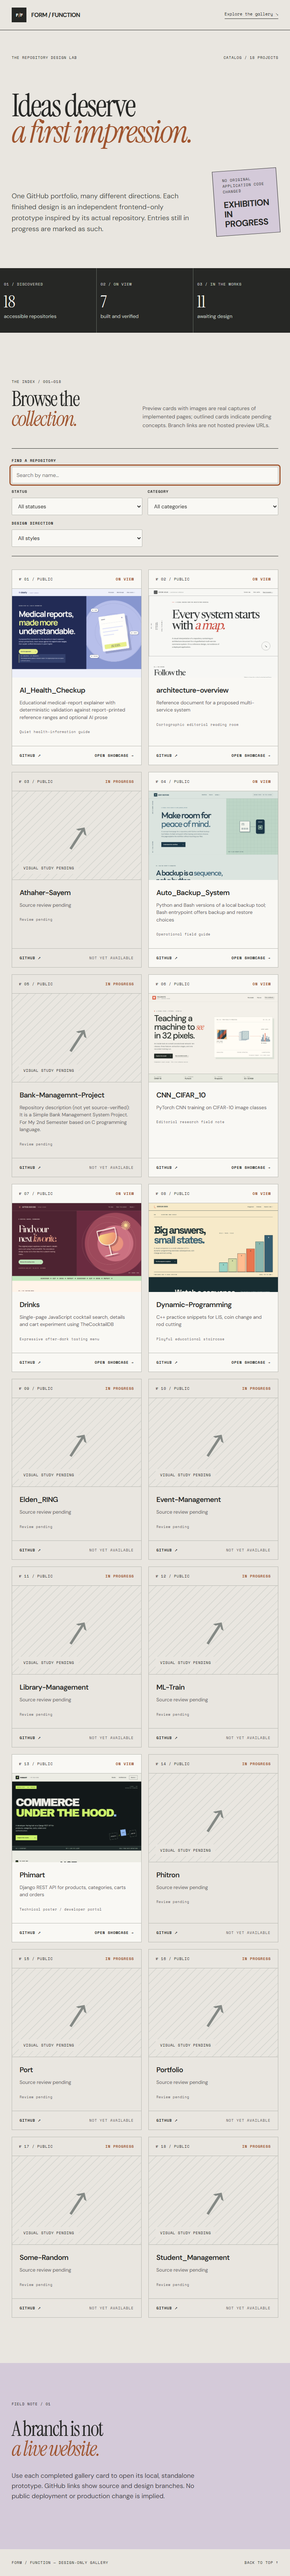
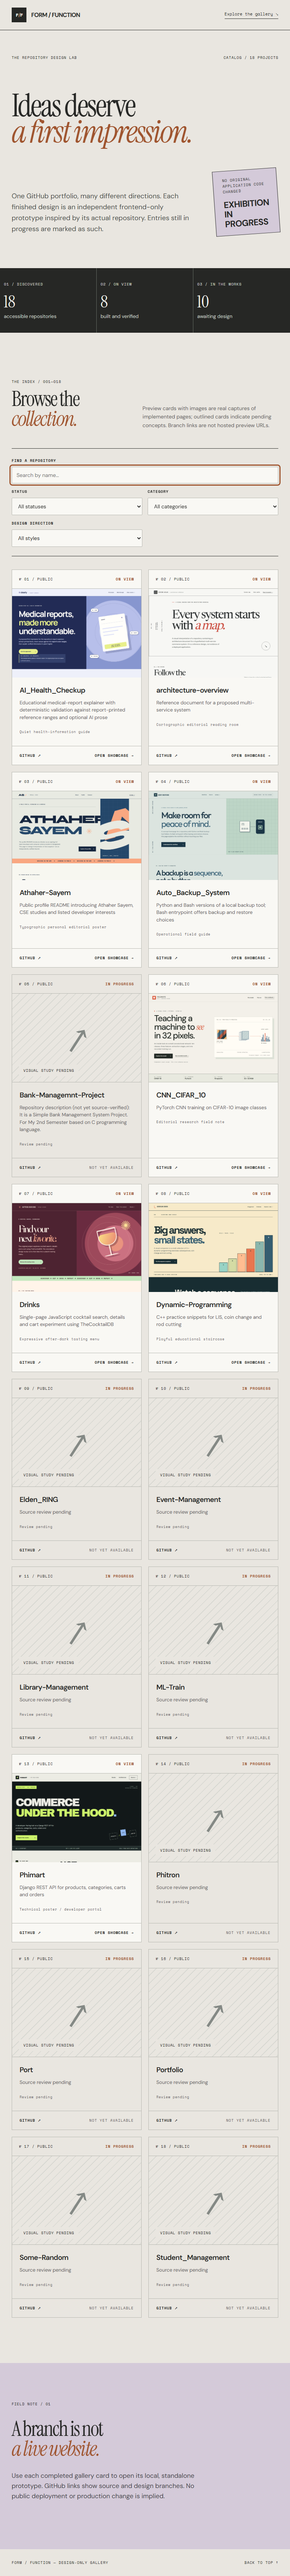
feat: index verified public profile showcase

Changed region(s): [[0.0625, 0.281, 0.4688, 0.3435]]

diff --git a/showcase-design/showcases/Athaher-Sayem/styles.css b/showcase-design/showcases/Athaher-Sayem/styles.css
@@ -1,0 +1,5 @@
+:root{--paper:#e8eae2;--ink:#14243d;--blue:#24476a;--peach:#f9a781;--chalk:#f7f7f0;--line:#9caba3;--sans:'DM Sans',Arial,sans-serif;--display:'Syne',Arial,sans-serif;--mono:'IBM Plex Mono',Consolas,monospace}*{box-sizing:border-box}html{scroll-behavior:smooth}body{margin:0;background:var(--paper);color:var(--ink);font:16px/1.6 var(--sans)}a{color:inherit}button{cursor:pointer;font:inherit}a:focus-visible,button:focus-visible{outline:3px solid var(--blue);outline-offset:4px}.skip{position:absolute;top:-100px;left:12px;background:var(--chalk);padding:12px;z-index:5}.skip:focus{top:10px}header{min-height:85px;border-bottom:1px solid var(--ink);padding:0 5%;display:flex;align-items:center;justify-content:space-between;gap:20px}.brand{font:800 29px var(--display);text-decoration:none;display:flex;align-items:center;gap:5px}.brand>span{color:var(--peach)}.brand small{font:10px var(--mono);margin-left:15px;border-left:1px solid var(--line);padding-left:15px;white-space:nowrap}nav{display:flex;gap:32px;font:600 12px var(--sans)}nav a,.source-link{text-decoration:none}nav a:hover,.source-link:hover{color:var(--blue)}.source-link{font:600 12px var(--mono);border-bottom:1px solid var(--ink)}h1,h2,h3,p{margin-top:0}.hero{display:grid;grid-template-columns:1.3fr .7fr;min-height:650px}.hero-left{padding:54px 5% 80px 8%;display:flex;flex-direction:column}.overline,.section-kicker,.source-note,.toolkit-panel .switcher button>span,footer{font:600 11px/1.5 var(--mono);letter-spacing:.03em}.overline{padding-bottom:18px;border-bottom:1px solid var(--line)}h1,h2{font-family:var(--display);font-weight:800;letter-spacing:-.09em;line-height:.95}h1{font-size:clamp(70px,9vw,150px);position:relative;margin:78px 0 55px}h1>span{color:var(--blue)}h1>b{font:80px var(--sans);color:var(--peach);position:absolute;right:6%;bottom:0}.hero-caption{display:flex;justify-content:space-between;align-items:end;gap:30px}.hero-caption p{max-width:470px;color:#3d5262;font-size:16px}.hero-caption a{flex:none;display:inline-flex;justify-content:space-between;gap:25px;background:var(--ink);color:var(--chalk);padding:17px 20px;text-decoration:none;font-weight:700;font-size:13px}.hero-caption a:hover{background:var(--blue)}.hero-right{background:var(--blue);position:relative;overflow:hidden;display:grid;place-items:center}.hero-right:before{content:'';position:absolute;inset:0;background:repeating-linear-gradient(0deg,transparent 0 46px,rgba(255,255,255,.07) 47px 48px),repeating-linear-gradient(90deg,transparent 0 46px,rgba(255,255,255,.07) 47px 48px)}.glyph-back,.glyph-front{font:800 clamp(250px,31vw,520px)/1 var(--display);letter-spacing:-.25em;position:absolute;transform:rotate(-15deg)}.glyph-back{color:var(--peach);left:0;top:7%}.glyph-front{color:var(--paper);right:14%;bottom:4%}.glyph-note{position:absolute;bottom:25px;left:25px;color:var(--paper);font:11px var(--mono)}.belt{background:var(--peach);color:var(--ink);padding:16px 2%;text-align:center;font:700 14px var(--mono);white-space:nowrap;overflow:hidden}.belt span{margin:0 19px}.about{padding:120px 5%;background:var(--chalk)}.about-layout{display:grid;grid-template-columns:1.1fr .9fr;align-items:end;gap:60px}.about h2,.toolkit h2,.connect h2{font-size:clamp(58px,7vw,108px);margin:27px 0}.about h2 em,.toolkit h2 em,.connect h2 em{font-style:normal;color:#446a7b}.about-layout>div{max-width:525px}.about-layout>div>p:first-child{font-size:18px;line-height:1.65}.source-note{font-size:10px;border-top:1px solid var(--line);padding-top:20px;color:#526775}.toolkit{padding:115px 5% 130px}.toolkit-intro{display:flex;justify-content:space-between;align-items:end;gap:40px}.toolkit-intro>p{max-width:350px;color:#4b6169}.toolkit-panel{display:grid;grid-template-columns:300px 1fr;border:1px solid var(--ink);background:var(--chalk);margin-top:55px;min-height:365px}.switcher{border-right:1px solid var(--ink)}.switcher button{border:0;border-bottom:1px solid var(--line);background:transparent;color:var(--ink);display:flex;align-items:center;justify-content:space-between;gap:14px;text-align:left;width:100%;padding:25px;font-weight:700}.switcher button[aria-pressed=true]{background:var(--blue);color:var(--chalk)}.switcher button:hover{background:var(--peach);color:var(--ink)}.switcher button[aria-pressed=true]:hover{background:var(--blue);color:var(--chalk)}.skill-display{padding:55px}.skill-display>p{max-width:530px;color:#536772}.skill-list{display:flex;gap:14px;flex-wrap:wrap;margin-top:60px}.skill-list span{font:700 clamp(21px,3vw,39px) var(--display);padding:13px 20px;border:1px solid var(--blue);color:var(--blue)}.connect{background:var(--ink);color:var(--chalk);padding:115px 5% 125px;display:grid;grid-template-columns:1fr .9fr;gap:50px;align-items:end}.connect h2 em{color:var(--peach)}.connect-links{border-top:1px solid #7e94a6}.connect-links a{display:flex;justify-content:space-between;align-items:center;gap:20px;padding:23px 3px;border-bottom:1px solid #7e94a6;text-decoration:none;font:600 22px var(--display)}.connect-links a:hover{color:var(--peach)}footer{padding:25px 5%;display:flex;justify-content:space-between;gap:15px}footer a{text-decoration:none}@media(max-width:1080px){.brand small{display:none}.hero{grid-template-columns:1.2fr .8fr}.hero-left{padding-left:5%}.hero h1{font-size:clamp(65px,9vw,105px)}.hero-caption{display:block}.hero-caption a{width:max-content;margin-top:15px}.about-layout{gap:25px}.toolkit-panel{grid-template-columns:250px 1fr}}@media(max-width:720px){header{min-height:66px;padding:0 20px}.brand{font-size:25px}nav{display:none}.hero{grid-template-columns:1fr}.hero-left{padding:36px 20px 75px}.hero h1{font-size:clamp(64px,13vw,95px);margin:65px 0 40px}.hero h1>b{font-size:50px}.hero-right{height:355px}.glyph-back,.glyph-front{font-size:300px}.glyph-back{left:8%}.glyph-front{right:27%}.belt{font-size:10px}.belt span{margin:0 10px}.about,.toolkit,.connect{padding:85px 20px}.about-layout,.connect{display:block}.about h2,.toolkit h2,.connect h2{font-size:clamp(51px,11vw,76px)}.about-layout>div{margin-top:35px}.toolkit-intro{display:block}.toolkit-intro>p{margin-top:25px}.toolkit-panel{grid-template-columns:1fr;margin-top:35px}.switcher{border:0;border-bottom:1px solid var(--ink);display:grid;grid-template-columns:repeat(3,1fr)}.switcher button{padding:12px 7px;display:block;font-size:10px;min-height:70px}.switcher button>span{display:block}.skill-display{padding:25px;min-height:250px}.skill-list{margin-top:35px}.skill-list span{font-size:20px}.connect-links{margin-top:45px}footer{padding:24px 20px;font-size:9px}}@media(max-width:390px){.hero h1{font-size:60px}.hero h1>b{font-size:45px}.skill-list span{font-size:18px;padding:10px}.connect-links a{font-size:20px}}@media(prefers-reduced-motion:reduce){*,*:before,*:after{scroll-behavior:auto!important;animation:none!important;transition:none!important}}
+@media(max-width:720px){.hero h1{font-size:clamp(42px,11.5vw,78px)}.about h2,.toolkit h2,.connect h2{font-size:clamp(38px,10vw,70px)}}
+@media(max-width:350px){.hero h1{font-size:38px}}
+@media(max-width:720px){.hero-left,.hero-right{min-width:0}}
+@media(max-width:350px){.about h2,.toolkit h2,.connect h2{font-size:37px}}

diff --git a/showcase-design/showcases/Athaher-Sayem/index.html b/showcase-design/showcases/Athaher-Sayem/index.html
@@ -1,0 +1,1 @@
+<!doctype html><html lang="en"><head><meta charset="utf-8"><meta name="viewport" content="width=device-width,initial-scale=1"><meta name="theme-color" content="#e8eae2"><meta name="description" content="An independent profile homepage concept based on Athaher Sayem's public GitHub profile README."><title>Athaher Sayem — Profile design study</title><link rel="preconnect" href="https://fonts.googleapis.com"><link rel="preconnect" href="https://fonts.gstatic.com" crossorigin><link href="https://fonts.googleapis.com/css2?family=DM+Sans:wght@400;500;600;700&family=IBM+Plex+Mono:wght@400;500;600&family=Syne:wght@500;600;700;800&display=swap" rel="stylesheet"><link rel="stylesheet" href="styles.css"><script defer src="app.js"></script></head><body><a class="skip" href="#main">Skip to profile</a><header><a href="#top" class="brand">AS<span>↗</span><small>PROFILE / STUDY</small></a><nav aria-label="Main"><a href="#about">About</a><a href="#toolkit">Toolkit</a><a href="#connect">Connect</a></nav><a class="source-link" href="https://github.com/Athaher-Sayem" target="_blank" rel="noopener noreferrer">GitHub ↗</a></header><main id="main"><section class="hero" id="top"><div class="hero-left"><span class="overline">A PUBLIC PROFILE, REIMAGINED AS A HOMEPAGE</span><h1>ATHAHER<br><span>SAYEM</span><b aria-hidden="true">✳</b></h1><div class="hero-caption"><p>The profile README introduces Athaher as an aspiring full-stack developer and computer science student in Bangladesh. This page is a design interpretation of that snapshot—not an independently verified résumé.</p><a href="#about">Explore the profile <span aria-hidden="true">↓</span></a></div></div><div class="hero-right" aria-label="Abstract monogram sculpture"><div class="glyph-back">A</div><div class="glyph-front">S</div><div class="glyph-note">CURIOSITY / CODE / PRACTICE</div></div></section><div class="belt" aria-hidden="true">BUILDING ON THE WEB <span>✳</span> LEARNING IN PUBLIC <span>✳</span> BUILDING ON THE WEB <span>✳</span> LEARNING IN PUBLIC <span>✳</span></div><section class="about" id="about"><div class="section-kicker">THE PERSON BEHIND THE REPOSITORIES</div><div class="about-layout"><h2>A STUDENT<br>OF <em>BUILDING.</em></h2><div><p>Computer Science &amp; Engineering, web development and problem solving are the through-lines in the public profile README. The goal of this concept is to make those interests feel like a person rather than a wall of badges.</p><p class="source-note">SOURCE: PUBLIC GITHUB PROFILE README. SOME ORIGINAL BIO COPY AND GOALS ARE DATED; THIS PAGE DOES NOT PRESENT THEM AS CURRENT ACHIEVEMENTS.</p></div></div></section><section class="toolkit" id="toolkit"><div class="toolkit-intro"><div><span class="section-kicker">FROM THE PROFILE README</span><h2>THE TOOLKIT<br>IN <em>CONTEXT.</em></h2></div><p>Switch between listed languages and the web technologies marked as “currently learning” in the README. These are self-descriptions, not tested proficiency claims.</p></div><div class="toolkit-panel"><div class="switcher" role="group" aria-label="Choose profile skill category"><button type="button" data-set="languages" aria-pressed="true">Languages &amp; data <span>01</span></button><button type="button" data-set="learning" aria-pressed="false">Web learning list <span>02</span></button><button type="button" data-set="tools" aria-pressed="false">Tools <span>03</span></button></div><div class="skill-display" aria-live="polite"><p id="skill-caption">Listed in the profile's programming-language section</p><div id="skill-list" class="skill-list"></div></div></div></section><section class="connect" id="connect"><div><span class="section-kicker">FOLLOW THE ORIGINAL LINKS</span><h2>LET'S KEEP<br>THE <em>DOOR OPEN.</em></h2></div><div class="connect-links"><a href="https://github.com/Athaher-Sayem" target="_blank" rel="noopener noreferrer"><span>GitHub profile</span><span aria-hidden="true">↗</span></a><a href="https://linkedin.com/in/athaher-sayem" target="_blank" rel="noopener noreferrer"><span>LinkedIn</span><span aria-hidden="true">↗</span></a><a href="mailto:athahersayem@outlook.com"><span>Email</span><span aria-hidden="true">↗</span></a></div></section></main><footer><span>ATHAHER SAYEM / INDEPENDENT PROFILE CONCEPT</span><a href="#top">Back to top ↑</a></footer></body></html>

diff --git a/showcase-design/data.js b/showcase-design/data.js
@@ -35,16 +35,16 @@ window.SHOWCASE_PROJECTS = [
     "name": "Athaher-Sayem",
     "url": "https://github.com/Athaher-Sayem/Athaher-Sayem",
     "visibility": "public",
-    "category": "Review pending",
-    "purpose": "Source review pending",
-    "style": null,
-    "palette": null,
-    "fonts": null,
-    "status": "pending",
-    "showcasePath": null,
-    "screenshot": null,
-    "branchUrl": null,
-    "commitUrl": null,
+    "category": "Public GitHub profile",
+    "purpose": "Public profile README introducing Athaher Sayem, CSE studies and listed developer interests",
+    "style": "Typographic personal editorial poster",
+    "palette": "Mineral paper / oxford blue / acid peach",
+    "fonts": "Syne / DM Sans / IBM Plex Mono",
+    "status": "completed",
+    "showcasePath": "showcases/Athaher-Sayem/index.html",
+    "screenshot": "showcases/Athaher-Sayem/assets/screenshots/desktop.png",
+    "branchUrl": "https://github.com/Athaher-Sayem/Athaher-Sayem/tree/Shocase_design",
+    "commitUrl": "https://github.com/Athaher-Sayem/Athaher-Sayem/commit/c8dec717ff432ba6750406123b4e878aeccb8ec9",
     "limitation": null
   },
   {

diff --git a/showcase-design/showcases/Athaher-Sayem/app.js b/showcase-design/showcases/Athaher-Sayem/app.js
@@ -1,0 +1,17 @@
+// Labels transcribed from the public profile README; not an assessment of proficiency.
+const sets = {
+  languages: { caption: "Listed in the profile's programming-language section", values: ['C', 'C++', 'Java', 'MySQL'] },
+  learning: { caption: 'Marked “Currently Learning” in the profile README (snapshot, not a current status claim)', values: ['HTML5', 'CSS3', 'JavaScript', 'React'] },
+  tools: { caption: "Listed under the README's tools section", values: ['Git', 'VS Code'] }
+};
+const list = document.getElementById('skill-list');
+function selectSet(key) {
+  const set = sets[key]; if (!set) return;
+  document.getElementById('skill-caption').textContent = set.caption;
+  list.replaceChildren(...set.values.map(value => {
+    const item = document.createElement('span'); item.textContent = value; return item;
+  }));
+  document.querySelectorAll('[data-set]').forEach(node => node.setAttribute('aria-pressed', String(node.dataset.set === key)));
+}
+document.querySelectorAll('[data-set]').forEach(button => button.addEventListener('click', () => selectSet(button.dataset.set)));
+selectSet('languages');

diff --git a/showcase-design/showcases/Athaher-Sayem/README.md b/showcase-design/showcases/Athaher-Sayem/README.md
@@ -1,0 +1,7 @@
+# Athaher Sayem — standalone public-profile showcase
+
+Open `index.html` directly or run `python -m http.server 8000` from this folder. This is an independent profile-homepage design based only on the existing public `README.md` at starting `main` commit `f41b5abee0f200553ccc667625cd1e01b39ae5df`. The source is a GitHub profile repository, not an application. Descriptions of education, interests, listed languages, learning areas and links are attributed to that README; this page does **not** claim that its older goals, skills, employment or results have been independently confirmed today.
+
+The category switcher is local static content; no GitHub statistics, social feeds or external data are queried. Contact links are copied from the README. The oversized A/S monogram is CSS typography, not an actual portrait. No original README content or main-branch file is edited.
+
+Direction: personal editorial poster on mineral paper, oxford-blue letterforms, acid peach punctuation; Syne display, DM Sans paragraphs and IBM Plex Mono context labels. Screenshots: `assets/screenshots/desktop.png`, `assets/screenshots/tablet.png`, `assets/screenshots/mobile.png` (rendered full page).
